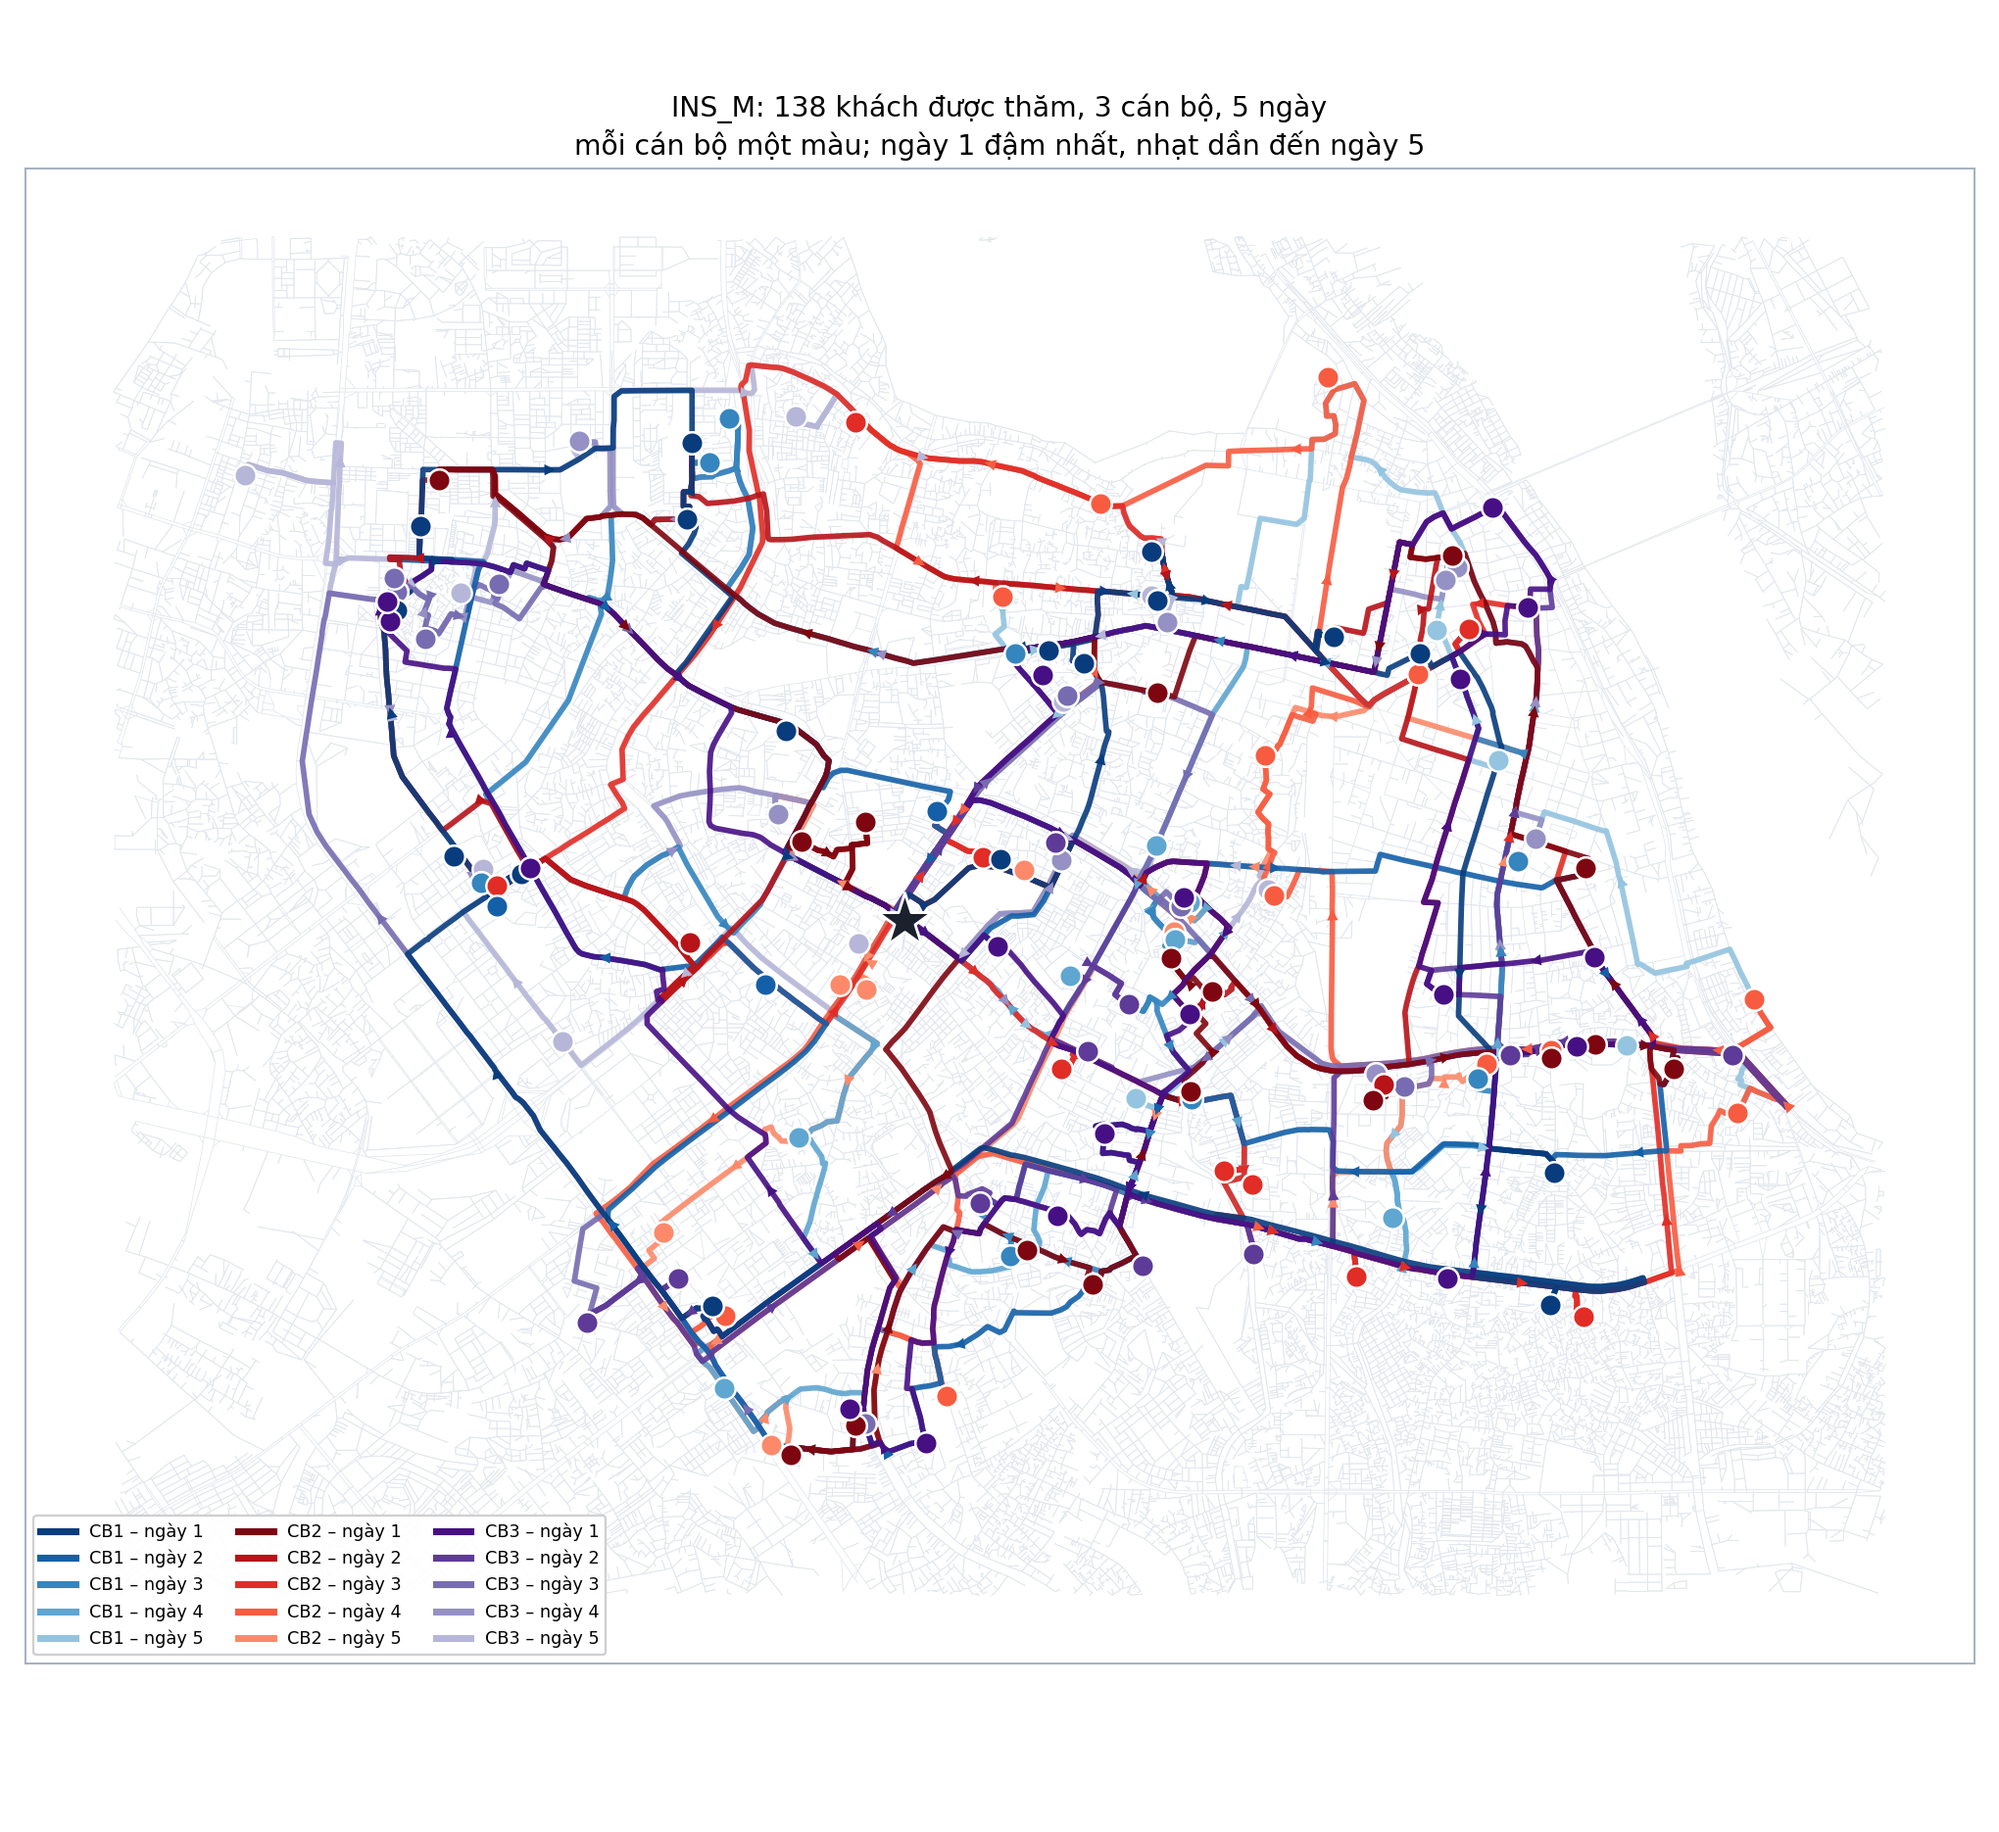
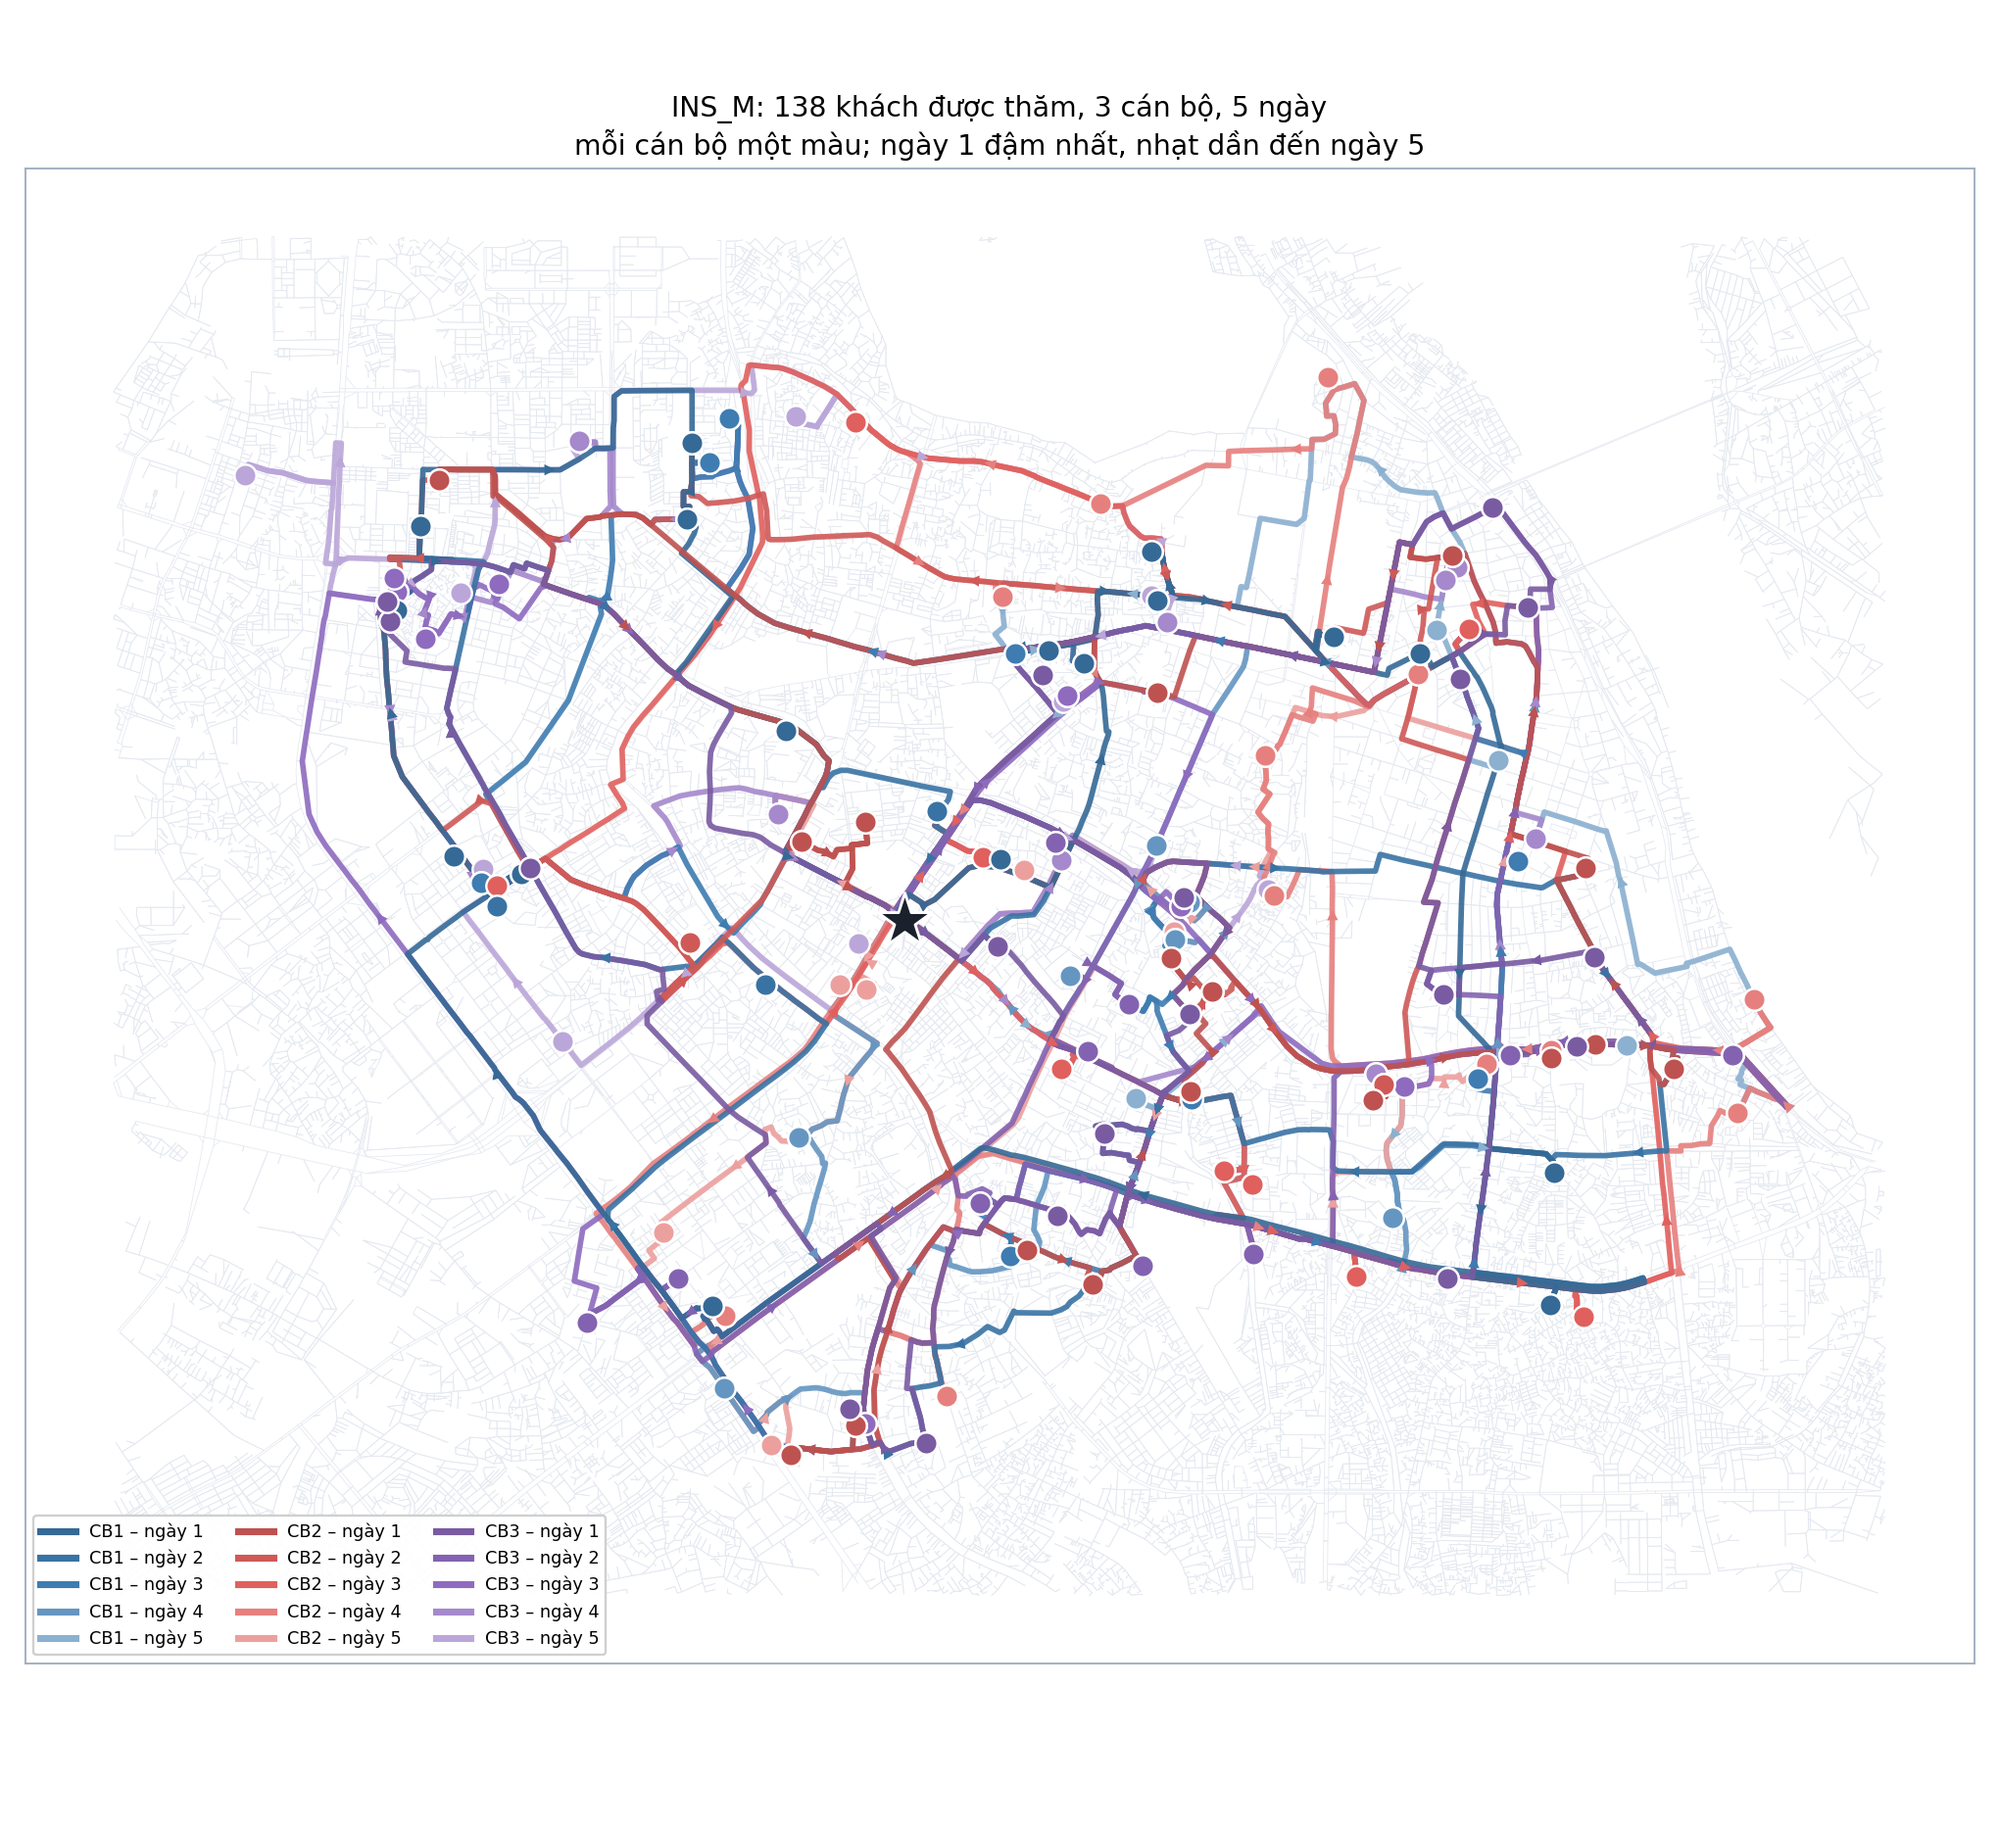
update figures

diff --git a/core/plot_v3_plan.py b/core/plot_v3_plan.py
@@ -6,6 +6,7 @@ Mỗi cán bộ một họ màu (xanh, đỏ, tím, vàng, lục); trong một h
 và nhạt dần đến ngày cuối. Hình được ghi vào figures/<tên kế hoạch>/:
 - customers.png: vị trí khách, cỡ điểm theo số tiền mục tiêu, màu theo nhóm nợ;
 - graph.png: mạng đường OSM (tầng dữ liệu) và đồ thị đầy đủ G=(V,A) (tầng mô hình);
+- routes_grid.png: lưới cán bộ x ngày, khách đánh số theo thứ tự thăm;
 - routes_overview.png: mọi tuyến của mọi cán bộ, mọi ngày trên một bản đồ;
 - routes_by_day.png: mỗi ngày một ô, các cán bộ cùng ngày;
 - routes_by_officer.png: mỗi cán bộ một ô, các ngày đậm-nhạt dần;
@@ -17,7 +18,9 @@ import math
 from pathlib import Path
 
 import matplotlib
+import matplotlib.colors as mcolors
 import matplotlib.pyplot as plt
+import numpy as np
 import networkx as nx
 import pandas as pd
 from matplotlib.collections import LineCollection
@@ -26,17 +29,31 @@ from matplotlib.lines import Line2D
 ROOT = Path(__file__).resolve().parents[1]
 CSV = ROOT / "collection_routing_dataset_v3" / "csv"
 FIGURES = ROOT / "figures"
-FAMILIES = ["Blues", "Reds", "Purples", "YlOrBr", "Greens"]
-FAMILY_NAMES = ["xanh", "đỏ", "tím", "vàng", "lục"]
-GROUP_COLORS = {2: "#68d391", 3: "#f6e05e", 4: "#ed8936", 5: "#c53030"}
-ROAD = "#e2e7ee"
+# Màu gốc dịu mắt (độ bão hòa vừa phải) cho từng cán bộ: xanh dương, đỏ san hô, tím oải hương, vàng hổ phách, xanh ngọc.
+BASE_COLORS = ["#3e7cb1", "#e0605e", "#8e6bbf", "#e3a33b", "#3ba99c"]
+FAMILY_NAMES = ["xanh", "đỏ", "tím", "vàng", "ngọc"]
+FAMILIES = BASE_COLORS
+GROUP_COLORS = {2: "#8fcf9b", 3: "#f2d16b", 4: "#f0a35e", 5: "#d9534f"}
+ROAD = "#e5e9f0"
+
+
+def _mix(color, other, w):
+    a, b = np.array(mcolors.to_rgb(color)), np.array(mcolors.to_rgb(other))
+    return tuple((1 - w) * a + w * b)
 
 
 def shade(k, t, H):
-    """Màu của cán bộ k ngày t: ngày 1 đậm nhất, ngày H nhạt nhất."""
-    cmap = matplotlib.colormaps[FAMILIES[(k - 1) % len(FAMILIES)]]
-    level = 0.95 if H == 1 else 0.95 - 0.55 * (t - 1) / (H - 1)
-    return cmap(level)
+    """Màu của cán bộ k ngày t: ngày 1 đậm (pha đen 15%), ngày H nhạt (pha trắng 40%)."""
+    base = BASE_COLORS[(k - 1) % len(BASE_COLORS)]
+    x = 0.0 if H == 1 else (t - 1) / (H - 1)
+    return _mix(base, "black", 0.15 * (1 - 2 * x)) if x <= 0.5 else _mix(base, "white", 0.40 * (2 * x - 1))
+
+
+def text_color(rgb):
+    """Chữ trắng trên nền đậm, chữ đen trên nền nhạt."""
+    r, g, b = rgb[:3]
+    return "white" if 0.299 * r + 0.587 * g + 0.114 * b < 0.62 else "#1a202c"
+
 
 
 def load_points(plan):
@@ -120,7 +137,7 @@ class Plotter:
         for (k, t), stops in self.plan.groupby(["officer", "day"]):
             yield int(k), int(t), stops.sort_values("stop_order")
 
-    def draw_route(self, ax, k, t, stops, lw=2.0, size=55):
+    def draw_route(self, ax, k, t, stops, lw=2.0, size=55, numbered=False):
         seq = stops.location_id.tolist()
         color = shade(k, t, self.H)
         segments = [self.road_path(a, b) for a, b in zip(seq, seq[1:])]
@@ -137,6 +154,11 @@ class Plotter:
         visited = [x for x in seq if x != "CN01"]
         ax.scatter(self.points.lon[visited], self.points.lat[visited], s=size,
                    color=[color], edgecolor="white", lw=1.0, zorder=5)
+        if numbered:
+            for order, cid in enumerate(visited, start=1):
+                ax.text(self.points.lon[cid], self.points.lat[cid], str(order),
+                        ha="center", va="center", fontsize=6.5, fontweight="bold",
+                        color=text_color(color), zorder=6)
 
     def legend(self, ax, officers=None, days=None, **kw):
         officers = officers or range(1, self.K + 1)
@@ -288,7 +310,34 @@ class Plotter:
         plt.close(fig)
         print("Saved:", path.relative_to(ROOT))
 
+    def figure_grid(self):
+        """Lưới cán bộ x ngày: mỗi ô một tuyến, khách đánh số theo thứ tự thăm."""
+        fig, axes = plt.subplots(self.K, self.H, figsize=(4.6 * self.H, 4.6 * self.K + 0.8),
+                                 squeeze=False)
+        routes = {(k, t): stops for k, t, stops in self.routes()}
+        for k in range(1, self.K + 1):
+            for t in range(1, self.H + 1):
+                ax = axes[k - 1, t - 1]
+                setup(ax, self.points)
+                draw_road(ax, self.nodes, self.shown)
+                ax.scatter(self.points.lon[1:], self.points.lat[1:], s=6,
+                           color="#cbd5e0", zorder=2)
+                stops = routes.get((k, t))
+                if stops is None:
+                    ax.set_title(f"CB{k} – ngày {t}: nghỉ", fontsize=10)
+                else:
+                    self.draw_route(ax, k, t, stops, lw=2.2, size=120, numbered=True)
+                    ax.set_title(f"CB{k} – ngày {t}: {len(stops) - 2} khách, "
+                                 f"{stops.leg_km.sum():.1f} km", fontsize=10,
+                                 color=shade(k, 1, self.H))
+                draw_depot(ax, self.points)
+        fig.suptitle(f"{self.title}\nmỗi ô là tuyến của một cán bộ trong một ngày: "
+                     f"xuất phát từ chi nhánh ★, thăm khách theo số 1, 2, 3, … rồi về ★",
+                     fontsize=13)
+        self.save(fig, "routes_grid")
+
     def all(self):
+        self.figure_grid()
         self.figure_customers()
         self.figure_graph()
         self.figure_overview()

diff --git a/README.md b/README.md
@@ -5,9 +5,11 @@ nợ đi thăm n khách quá hạn trong H ngày trên mạng đường thật c
 cho **tổng tiền thu hồi kỳ vọng** lớn nhất. Một khách có thể được thăm lại, và
 xác suất trả nợ giảm dần theo ngày.
 
-![Tuyến 5 ngày của 2 cán bộ, 80 khách](figures/INS_S_n80_H5/routes_overview.png)
+![Tuyến 5 ngày của 2 cán bộ, 80 khách](figures/INS_S_n80_H5/routes_grid.png)
 
-*Mỗi cán bộ một họ màu (xanh, đỏ, …); ngày 1 đậm nhất, nhạt dần đến ngày 5.*
+*Mỗi hàng là một cán bộ, mỗi cột là một ngày. Cán bộ xuất phát từ chi nhánh ★,
+thăm khách theo số 1, 2, 3, … rồi quay về ★. Mỗi cán bộ một họ màu (xanh, đỏ, …),
+ngày 1 đậm nhất, nhạt dần đến ngày 5.*
 
 ## Nội dung
 

diff --git a/docs/04_experiments.md b/docs/04_experiments.md
@@ -240,6 +240,8 @@ xác suất trả nợ cao và khi số khách lớn.
 Kế hoạch 5 ngày của INS_S (ALNS). Mỗi cán bộ một họ màu; ngày 1 đậm nhất,
 nhạt dần đến ngày 5.
 
+![Cán bộ × ngày](../figures/INS_S_n80_H5/routes_grid.png)
+
 ![Theo ngày](../figures/INS_S_n80_H5/routes_by_day.png)
 
 ![Theo cán bộ](../figures/INS_S_n80_H5/routes_by_officer.png)
